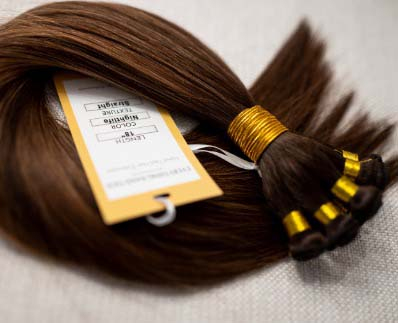
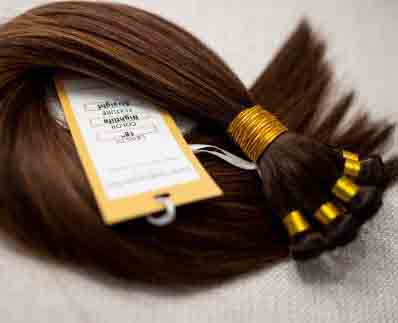
recompressed images

diff --git a/styles/sections/specialties/index.css b/styles/sections/specialties/index.css
@@ -4,9 +4,9 @@ section.specialties {
 }
 section.specialties h1 {
   text-align: center;
-  font-size: var(--md);
   margin: 50px 0;
   color: var(--dk-mauve);
+  font-size: var(--md);
 }
 section.specialties h3 {
   font-size: var(--sm);
@@ -14,7 +14,6 @@ section.specialties h3 {
 section.specialties p {
   line-height: 1.4;
 }
-
 section.specialties .wrapper {
   display: grid;
   grid: repeat(6, 1fr) / repeat(1, 1fr);
@@ -22,7 +21,6 @@ section.specialties .wrapper {
   width: 96%;
   margin: auto;
 }
-
 section.specialties .wrapper div {
   height: 250px;
   display: grid;
@@ -49,36 +47,21 @@ section.specialties .wrapper div:last-child img {
 /*Md*/
 @media (min-width: 768px) {
   section.specialties .wrapper {
-    display: grid;
     grid: repeat(3, 1fr) / repeat(2, 1fr);
-    gap: 20px;
-    width: 96%;
-    margin: auto;
   }
   section.specialties .wrapper div {
     height: 280px;
-    padding: 40px;
-    gap: 12px;
-    border-radius: 0.2rem;
-    box-shadow: 2px 2px 10px 4px rgba(0, 0, 0, 0.1);
-  }
-  section.specialties h1 {
-    font-size: var(--base);
-    margin: 60px 0;
   }
   section.specialties .wrapper div:last-child img {
-    width: 30px;
+    width: 25px;
   }
 }
 
 /*Lg*/
 @media (min-width: 1024px) {
   section.specialties .wrapper {
-    display: grid;
     grid: repeat(2, 1fr) / repeat(3, 1fr);
-    gap: 20px;
     width: 90%;
-    margin: auto;
   }
   section.specialties h1 {
     font-size: var(--lg);
@@ -89,9 +72,6 @@ section.specialties .wrapper div:last-child img {
 @media (min-width: 1536px) {
   section.specialties {
     padding: 60px 0;
-  }
-  section.specialties .wrapper {
-    gap: 20px;
   }
   section.specialties h1 {
     font-size: var(--xl);
@@ -118,6 +98,7 @@ section.specialties .wrapper div:last-child img {
     width: 40px;
   }
 }
+
 /*2k*/
 @media (min-width: 2000px) {
   section.specialties {

diff --git a/styles/sections/home/features.css b/styles/sections/home/features.css
@@ -11,7 +11,7 @@
     position: absolute;
     top: 70px;
     left: 40px;
-    width: 200px;
+    width: 180px;
     display: grid;
     place-items: center;
     padding: 20px 0;
@@ -19,7 +19,7 @@
   }
   .features_box {
     animation: slide_right 3s;
-    animation-delay: 3s;
+    animation-delay: 2s;
     animation-fill-mode: forwards;
     -o-animation-fill-mode: forwards;
     -webkit-animation-fill-mode: forwards;

diff --git a/styles/sections/gallery/top_row.css b/styles/sections/gallery/top_row.css
@@ -18,9 +18,9 @@ section.gallery .top-row .right {
   background-size: cover;
 }
 section.gallery .top-row .mid {
-  display: flex;
+  display: grid;
+  grid-template-rows: 1fr 1fr;
   gap: 6px;
-  flex-direction: column;
   flex: 1;
 }
 section.gallery .top-row .mid article {

diff --git a/global.css b/global.css
@@ -21,9 +21,6 @@
   --dk-mauve: #662f1b;
   --lt-gold: #ffe5b6;
   --dk-gold: #ddbc85;
-  --font: holiday;
-  --font-header: montserrat classic;
-  --font-para: montserrat extra-light;
 
   --std-padding: 5%;
 

diff --git a/styles/sections/home/index.css b/styles/sections/home/index.css
@@ -21,7 +21,7 @@ section.home {
   position: absolute;
   width: 100%;
   height: 105%;
-  animation: blackout 3s;
+  animation: blackout 4s;
   animation-fill-mode: forwards;
 }
 
